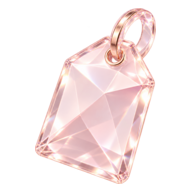
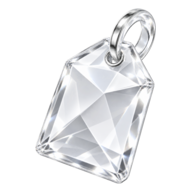
feat(admin): adapta iconos de cristal a todos los temas

Changed region(s): [[0.1562, 0.0312, 0.8125, 0.9688]]

diff --git a/frontend/src/admin/AdminLayout.jsx b/frontend/src/admin/AdminLayout.jsx
@@ -715,122 +715,128 @@ export default function AdminLayout() {
         .admin-premium-nav-icon {
           position: relative;
           display: grid;
-          width: 36px;
-          height: 36px;
-          flex: 0 0 36px;
+          width: 38px;
+          height: 38px;
+          flex: 0 0 38px;
           place-items: center;
           isolation: isolate;
+          overflow: visible;
         }
 
         .admin-premium-nav-icon__halo {
           position: absolute;
-          left: 6px;
-          right: 6px;
-          bottom: 2px;
-          height: 9px;
+          left: 4px;
+          right: 4px;
+          bottom: 1px;
+          height: 11px;
           z-index: -1;
           border-radius: 50%;
-          background: color-mix(in srgb, var(--admin-primary) 38%, transparent);
+          background: rgba(255,255,255,.62);
           filter: blur(5px);
-          opacity: .38;
+          opacity: .2;
           transform: scale(.9);
-          animation: adminCrystalHaloPulse 4.6s ease-in-out infinite;
-          transition: opacity .24s ease, filter .24s ease;
+          transition: opacity .24s ease, filter .24s ease, transform .24s ease;
         }
 
         .admin-premium-nav-icon__miniature {
           position: relative;
           z-index: 1;
           display: block;
-          width: 36px;
-          height: 36px;
+          width: 46px;
+          height: 46px;
+          max-width: none;
+          flex: 0 0 auto;
           object-fit: contain;
           pointer-events: none;
           user-select: none;
           filter:
-            contrast(1.05)
-            drop-shadow(0 1px 0 rgba(255,255,255,.5))
-            drop-shadow(0 3px 4px color-mix(in srgb, var(--admin-primary) 30%, rgba(38,20,34,.28)));
-          animation: adminCrystalIconGleam 5.2s ease-in-out infinite;
+            contrast(1.08)
+            drop-shadow(0 1px 1px rgba(255,255,255,.88))
+            drop-shadow(0 3px 4px rgba(17,24,39,.42));
           transform: translateZ(0);
           transition: filter .24s ease, transform .24s ease;
         }
 
-        @keyframes adminCrystalIconGleam {
-          0%, 68%, 100% {
-            filter:
-              contrast(1.05)
-              brightness(1)
-              drop-shadow(0 1px 0 rgba(255,255,255,.5))
-              drop-shadow(0 3px 4px color-mix(in srgb, var(--admin-primary) 30%, rgba(38,20,34,.28)));
-          }
-          78% {
-            filter:
-              contrast(1.08)
-              brightness(1.13)
-              drop-shadow(0 1px 0 rgba(255,255,255,.72))
-              drop-shadow(0 4px 7px color-mix(in srgb, var(--admin-primary) 42%, rgba(38,20,34,.3)));
-          }
-        }
-
-        @keyframes adminCrystalHaloPulse {
-          0%, 100% { opacity: .3; transform: scale(.88); }
-          50% { opacity: .62; transform: scale(1.06); }
-        }
-
-        .admin-nav-link:nth-child(3n + 2) .admin-premium-nav-icon__miniature,
-        .admin-nav-link-mobile:nth-child(3n + 2) .admin-premium-nav-icon__miniature {
-          animation-delay: -1.7s;
-        }
-
-        .admin-nav-link:nth-child(3n) .admin-premium-nav-icon__miniature,
-        .admin-nav-link-mobile:nth-child(3n) .admin-premium-nav-icon__miniature {
-          animation-delay: -3.4s;
-        }
-
         .admin-premium-nav-icon__fallback {
-          width: 20px;
-          height: 20px;
+          width: 24px;
+          height: 24px;
           color: var(--admin-primary);
           filter: drop-shadow(0 3px 4px color-mix(in srgb, var(--admin-primary) 25%, transparent));
         }
 
         .admin-premium-nav-icon--compact {
-          width: 30px;
-          height: 30px;
-          flex-basis: 30px;
+          width: 32px;
+          height: 32px;
+          flex-basis: 32px;
         }
 
         .admin-premium-nav-icon--compact .admin-premium-nav-icon__miniature {
-          width: 30px;
-          height: 30px;
+          width: 38px;
+          height: 38px;
+        }
+
+        .admin-nav-link[aria-current="page"] .admin-premium-nav-icon__halo,
+        .admin-nav-link-mobile[aria-current="page"] .admin-premium-nav-icon__halo {
+          background: rgba(255,255,255,.72);
+          opacity: .28;
+          filter: blur(6px);
+          transform: scale(.98);
+        }
+
+        .admin-nav-link[aria-current="page"] .admin-premium-nav-icon__miniature,
+        .admin-nav-link-mobile[aria-current="page"] .admin-premium-nav-icon__miniature {
+          filter:
+            contrast(1.1)
+            brightness(1.04)
+            drop-shadow(0 1px 1px rgba(255,255,255,.92))
+            drop-shadow(0 4px 6px rgba(17,24,39,.48));
+          transform: scale(1.03);
         }
 
         .admin-nav-link:hover .admin-premium-nav-icon__halo,
-        .admin-nav-link-mobile:hover .admin-premium-nav-icon__halo,
-        .admin-nav-link[aria-current="page"] .admin-premium-nav-icon__halo,
-        .admin-nav-link-mobile[aria-current="page"] .admin-premium-nav-icon__halo {
-          animation: none;
-          opacity: .92;
-          filter: blur(9px);
-          transform: scale(1.08);
+        .admin-nav-link-mobile:hover .admin-premium-nav-icon__halo {
+          background: color-mix(in srgb, var(--admin-primary) 52%, transparent);
+          animation: adminCrystalHaloHover .52s cubic-bezier(.2,.75,.25,1) both;
         }
 
         .admin-nav-link:hover .admin-premium-nav-icon__miniature,
-        .admin-nav-link-mobile:hover .admin-premium-nav-icon__miniature,
-        .admin-nav-link[aria-current="page"] .admin-premium-nav-icon__miniature,
-        .admin-nav-link-mobile[aria-current="page"] .admin-premium-nav-icon__miniature {
-          animation: none;
-          filter:
-            brightness(1.06)
-            drop-shadow(0 1px 0 rgba(255,255,255,.55))
-            drop-shadow(0 4px 6px color-mix(in srgb, var(--admin-primary) 38%, rgba(38,20,34,.2)));
-          transform: translateY(-1px) scale(1.06);
+        .admin-nav-link-mobile:hover .admin-premium-nav-icon__miniature {
+          animation: adminCrystalIconHover .52s cubic-bezier(.2,.75,.25,1) both;
+        }
+
+        @keyframes adminCrystalIconHover {
+          0% {
+            transform: translateY(0) scale(1);
+          }
+          48% {
+            transform: translateY(-2px) scale(1.13);
+            filter:
+              contrast(1.09)
+              brightness(1.15)
+              drop-shadow(0 1px 1px rgba(255,255,255,.96))
+              drop-shadow(0 6px 9px rgba(17,24,39,.55));
+          }
+          100% {
+            transform: translateY(-1px) scale(1.08);
+            filter:
+              contrast(1.08)
+              brightness(1.08)
+              drop-shadow(0 1px 1px rgba(255,255,255,.9))
+              drop-shadow(0 5px 7px rgba(17,24,39,.5));
+          }
+        }
+
+        @keyframes adminCrystalHaloHover {
+          0% { opacity: .2; transform: scale(.9); filter: blur(5px); }
+          52% { opacity: .96; transform: scale(1.16); filter: blur(10px); }
+          100% { opacity: .78; transform: scale(1.08); filter: blur(8px); }
         }
 
         @media (prefers-reduced-motion: reduce) {
-          .admin-premium-nav-icon__miniature,
-          .admin-premium-nav-icon__halo {
+          .admin-nav-link:hover .admin-premium-nav-icon__miniature,
+          .admin-nav-link-mobile:hover .admin-premium-nav-icon__miniature,
+          .admin-nav-link:hover .admin-premium-nav-icon__halo,
+          .admin-nav-link-mobile:hover .admin-premium-nav-icon__halo {
             animation: none;
           }
         }
